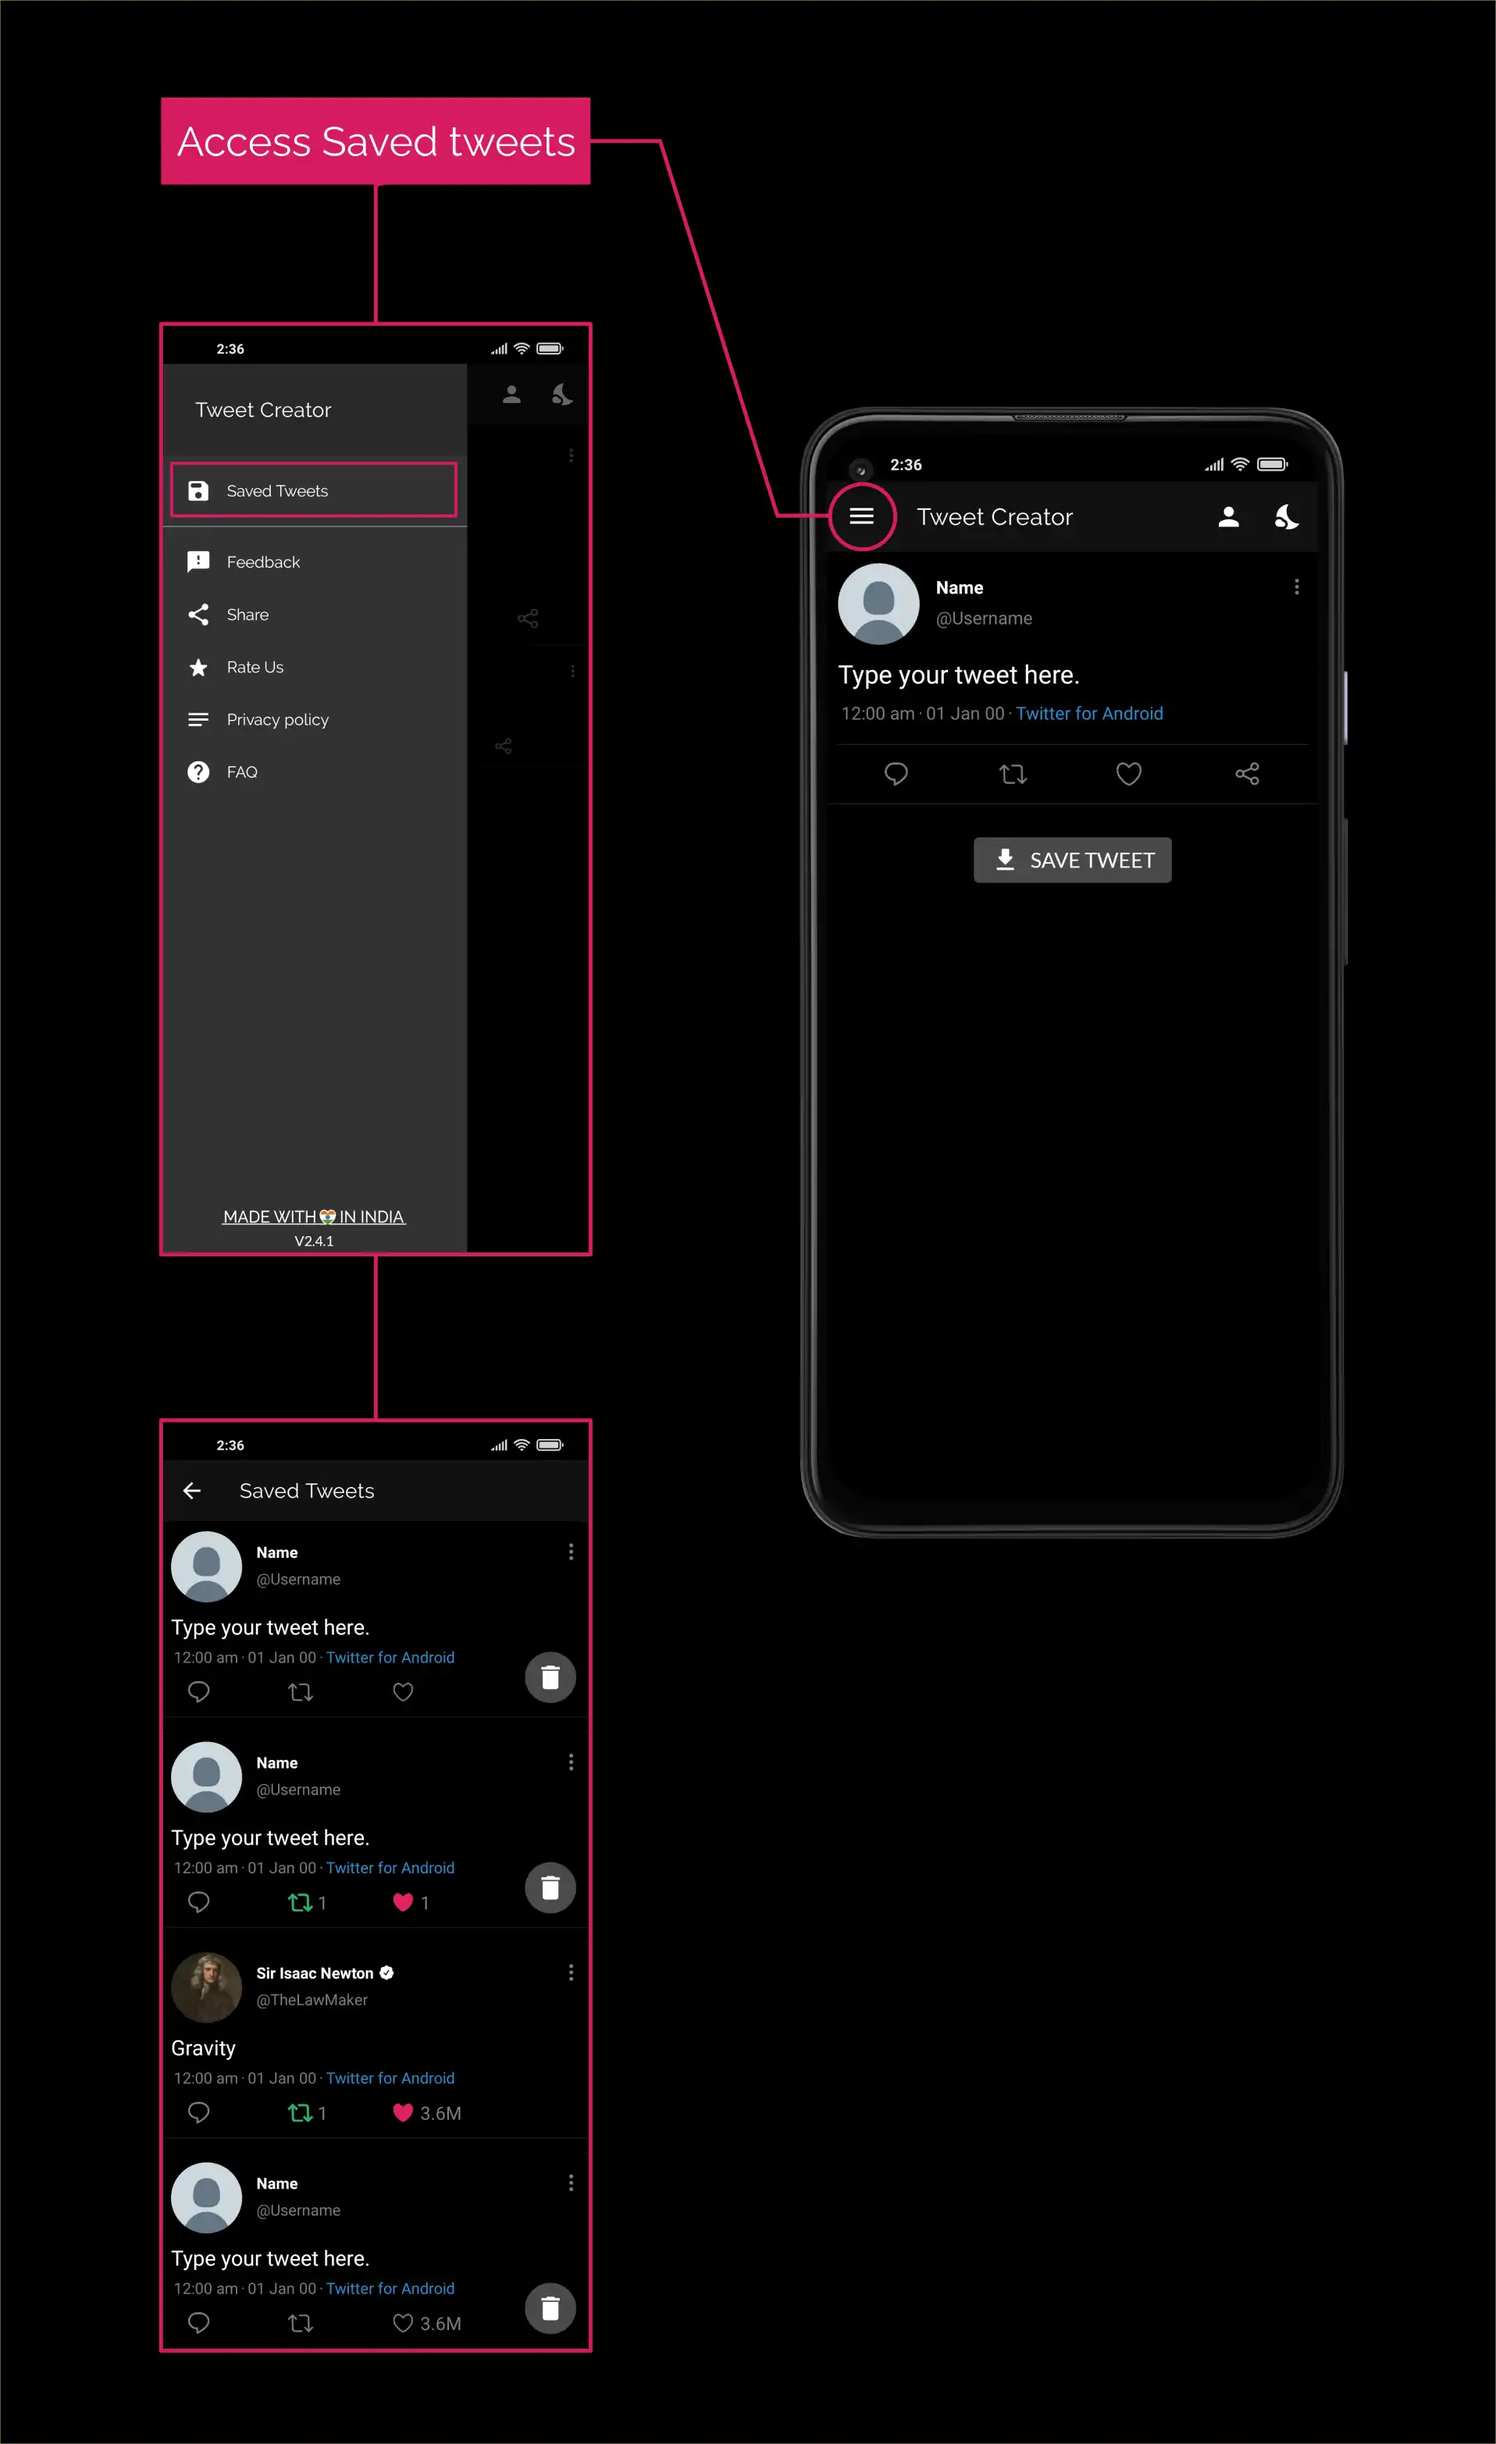
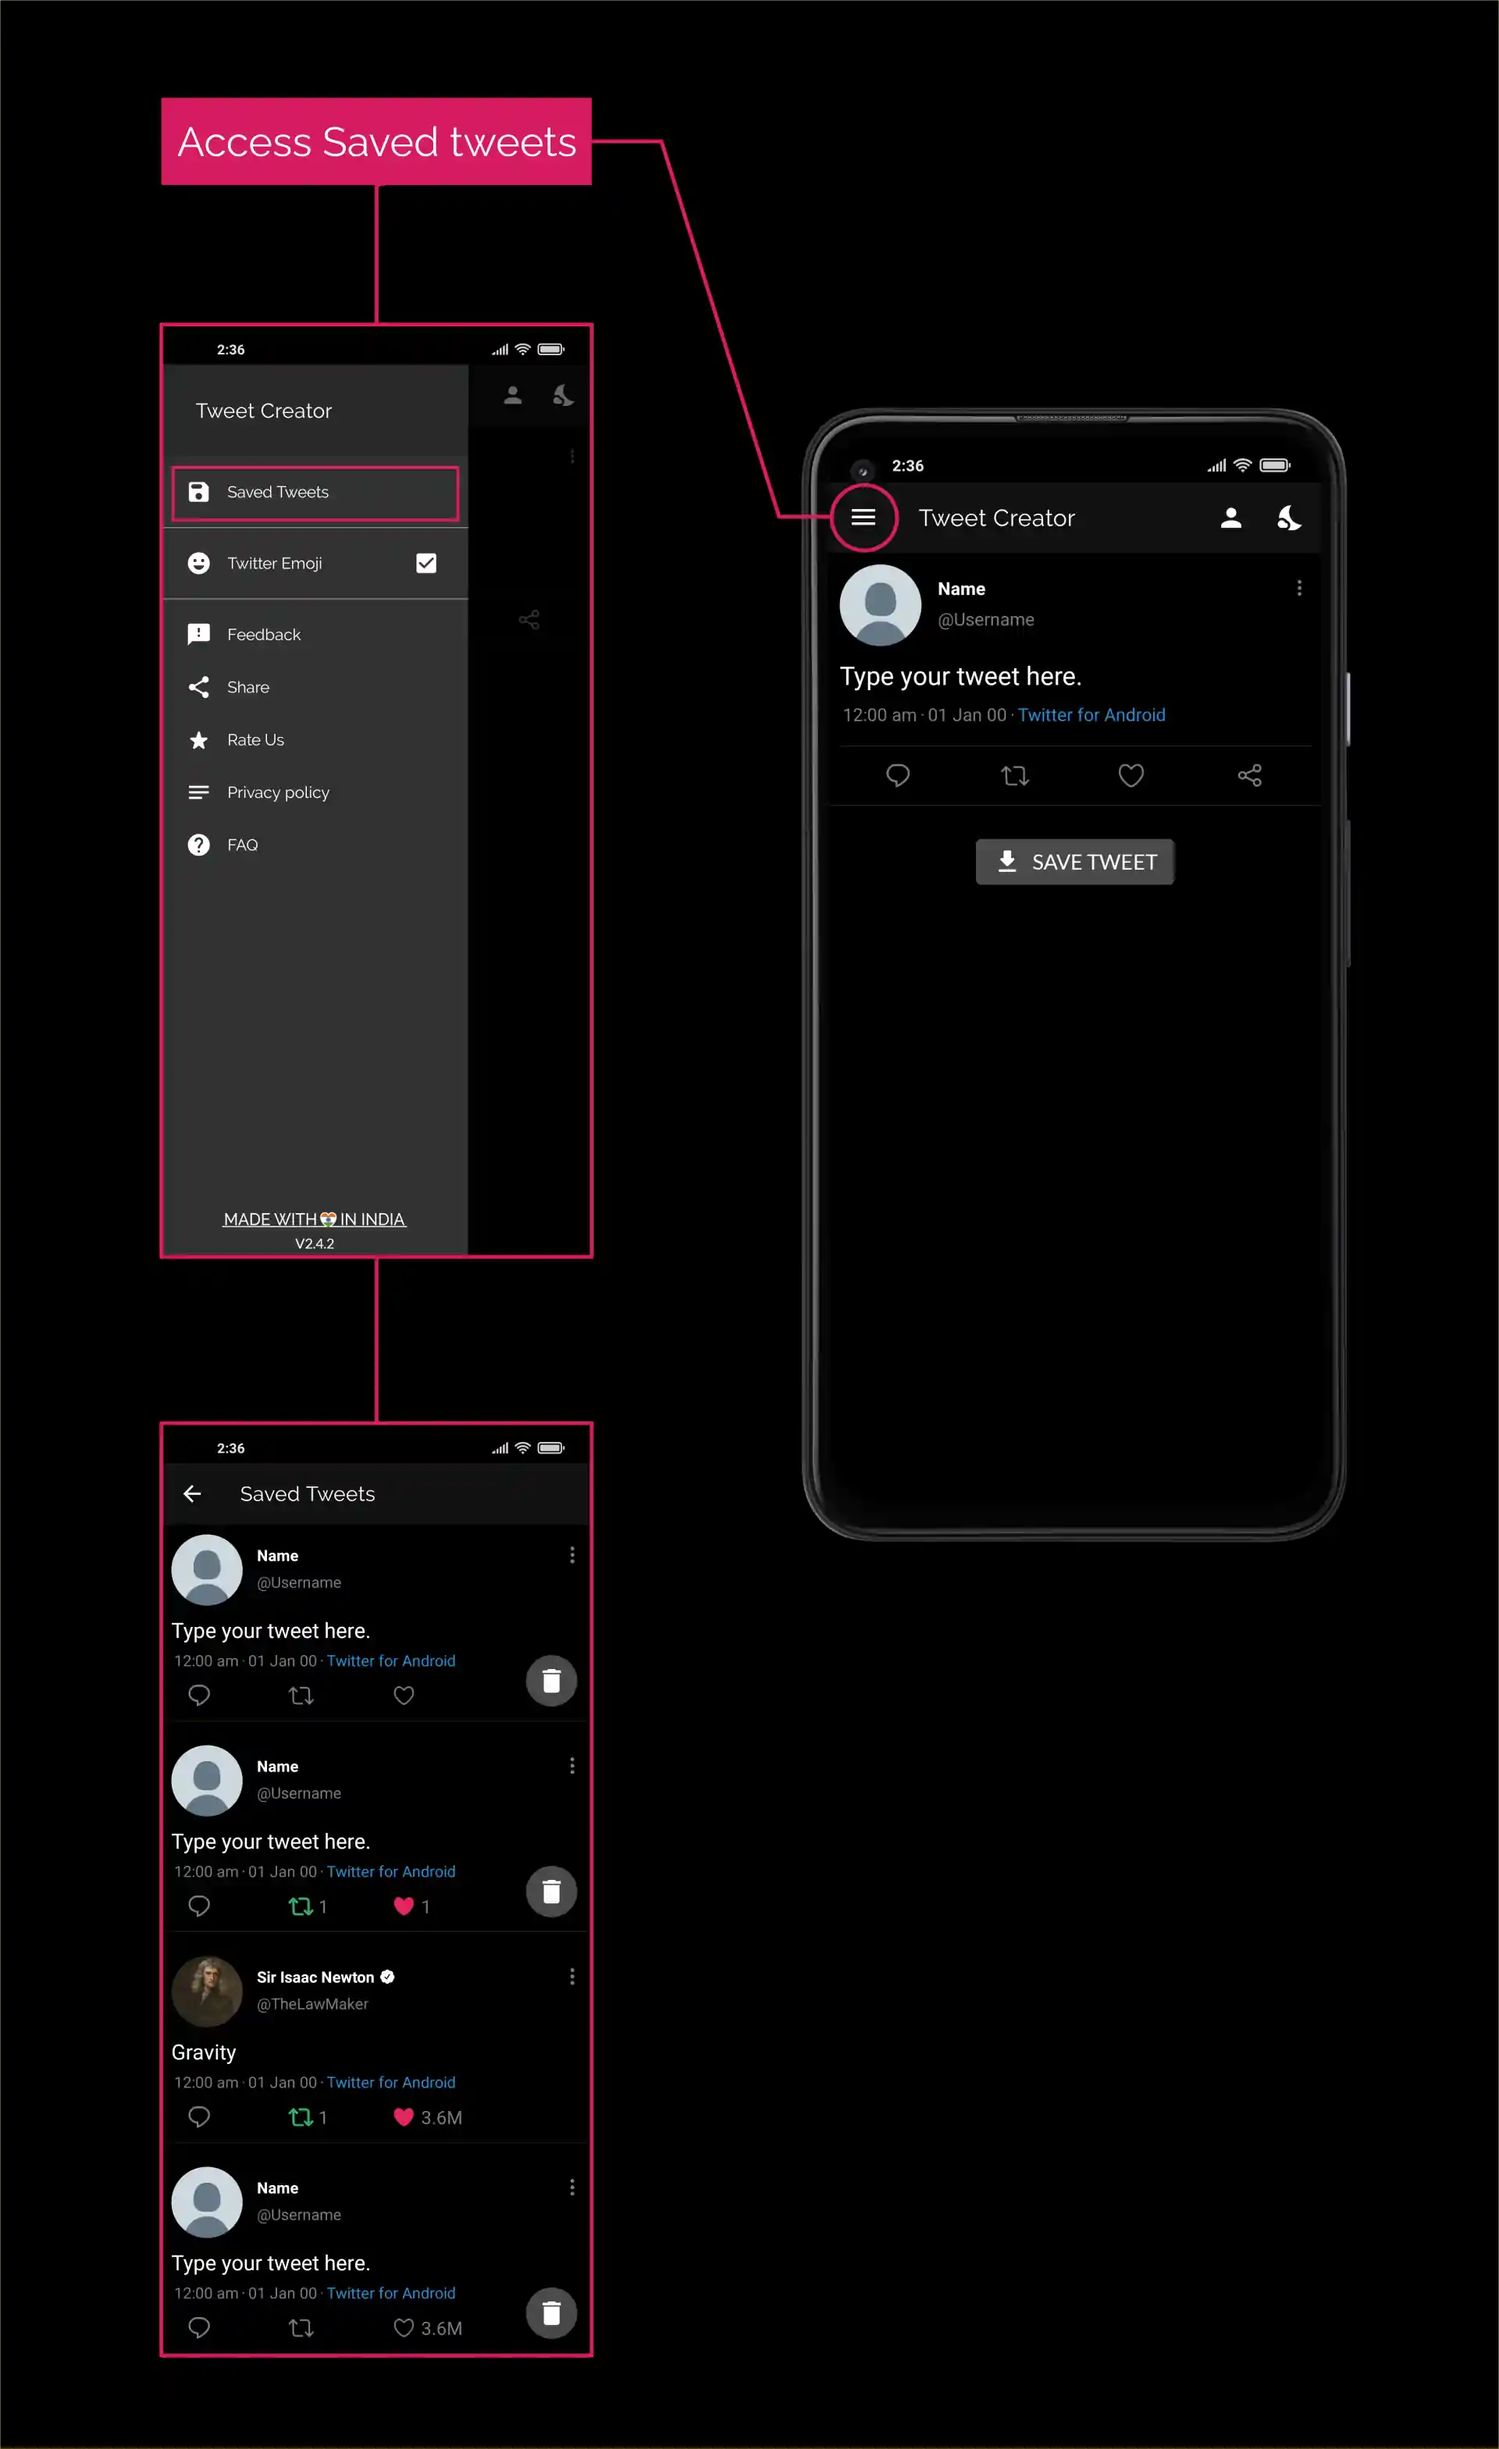
:art: Updates tweet creator faq

Changed region(s): [[0.0924, 0.1859, 0.3079, 0.3719]]

diff --git a/help/tweetcreator/faq.md b/help/tweetcreator/faq.md
@@ -12,6 +12,17 @@ For switching between dim, dark and light mode of app, touch the **Sun** or **Mo
 ![Theme switching](../../assets/images/help-section/themeChange.webp
 )
 
+## How to toggle emojis ?
+
+>Toggling between twitter and system emoji
+1. Tap on the **hamburger icon** on the top left corner.
+2. Tap **Twitter emoji** in the navigation menu.
+3. Accept the confirmation that you want to restart the app.
+>Note: Changing emoji requires app restart.
+
+![Toggling emoji](../../assets/images/help-section/changeEmoji.webp
+)
+
 
 <!-- 2 -->
 ## How to toggle tweet options ?
